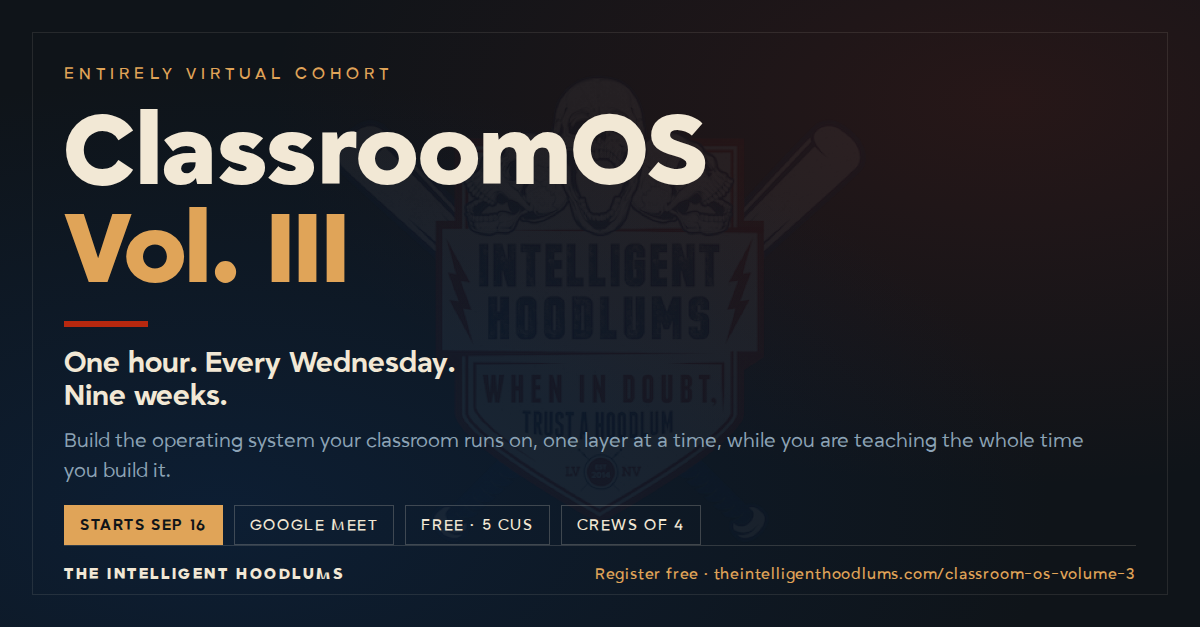
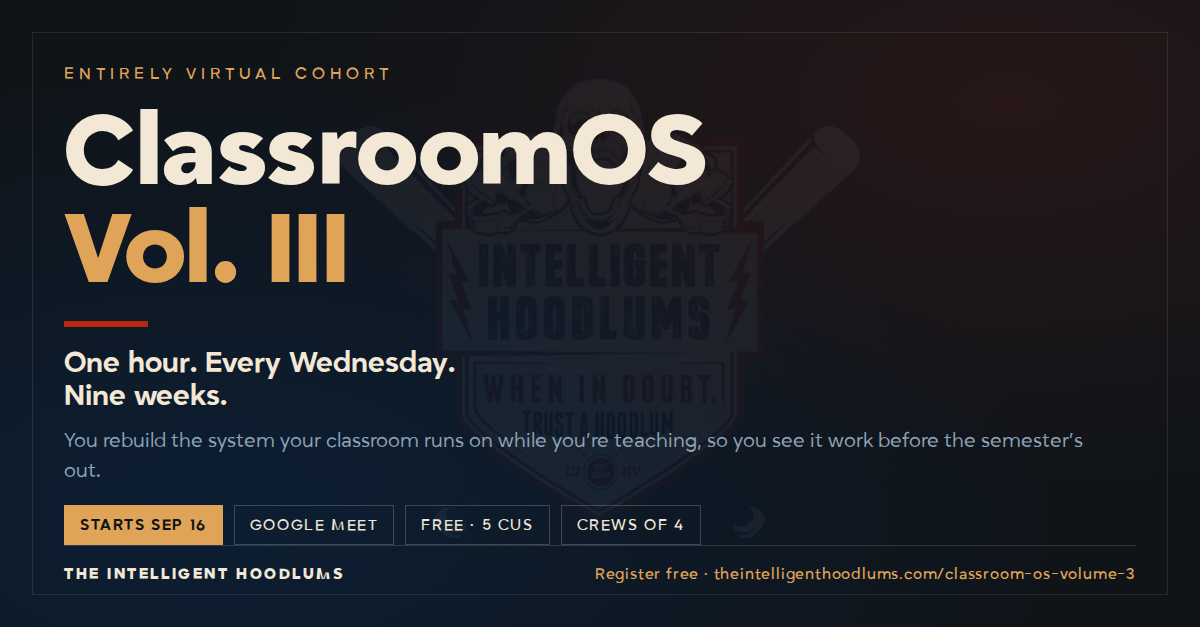
Tighten Vol. III copy for voice and length
Fix the voice problems webs flagged and cut the page down:
- Drop 'next honest chance' (self-certifying virtue word) and 'load-bearing wall'
  (vocabulary tell)
- Rewrite the circular 'teaching the whole time you build it' line on the page,
  the event card, and the registration graphics
- Remove the dangling 'same crews' reference, which named crews before the page
  introduced them
- Use contractions throughout for a less stilted register
- Pull the nine-week cards back from a step-by-step syllabus to outcomes, so the
  page stops giving the method away
- Cut the session-open block and fold hours-and-credit into a compact note,
  shortening the page overall
Re-render both social card sets from the updated copy.

Changed region(s): [[0.0308, 0.697, 0.925, 0.7576]]

diff --git a/classroom-os-volume-3.html b/classroom-os-volume-3.html
@@ -172,7 +172,7 @@
     <h1 class="hero-title" style="margin-top:18px;">ClassroomOS,<br>Vol.&nbsp;III.</h1>
     <div class="rufous-rule hero-rule"></div>
     <p class="hero-tagline">
-      One hour. Every Wednesday. Nine weeks. Build the operating system your classroom runs on, one layer at a time, while you are teaching the whole time you build it.
+      One hour. Every Wednesday. Nine weeks. You&rsquo;ll rebuild the system your classroom runs on while you&rsquo;re teaching, so you see it work before the semester&rsquo;s out.
     </p>
     <div class="hero-cta">
       <a href="https://luma.com/d18q3tcw" class="btn btn-primary" target="_blank" rel="noopener">Take the Seat<span class="sr-only"> (register on Luma, opens in new tab)</span></a>
@@ -189,13 +189,13 @@
     <h2 class="section-title">Every classroom runs on an operating system.</h2>
     <div class="rufous-rule section-rule"></div>
     <p class="lede-text">
-      Most teachers inherited theirs by accident: old habits, district mandates, and whatever survived the last in-service. It holds up fine until you are absent, or exhausted, or the schedule collapses. Then it turns out the system was you the whole time.
+      Most teachers inherited theirs by accident, built from old habits, mandates, and whatever survived the last in-service. It holds up until you&rsquo;re absent, or exhausted, or the schedule collapses. That&rsquo;s when you find out the system was you.
     </p>
     <p class="lede-text" style="margin-top:24px;">
-      <strong>ClassroomOS is where you rebuild that system on purpose, one layer at a time.</strong> You start with what you actually believe about how people learn. Then you build the room, the year, and the tools that carry it, until the design is what holds the whole thing together.
+      <strong>ClassroomOS is where you rebuild it on purpose, one layer at a time.</strong> You start with what you believe about how people learn, then build the room, the year, and the tools that carry it.
     </p>
     <p class="lede-text" style="margin-top:24px;">
-      Teachers who did this in June rated their own classrooms on Monday and again on Friday. &ldquo;My classroom could run without me in the room&rdquo; moved from 3.7 to 4.4. Eighty-six percent of scores rose.
+      Teachers who did this in June rated their own rooms before and after. &ldquo;My classroom could run without me&rdquo; moved from 3.7 to 4.4, and 86% of scores went up.
     </p>
   </div>
 </section>
@@ -204,33 +204,18 @@
 <section class="section section-work" tabindex="-1">
   <div class="section-inner">
     <div class="section-label">Why This One Runs Online</div>
-    <h2 class="section-title">There is no five-day window in a school year.</h2>
+    <h2 class="section-title">There&rsquo;s no five-day window in a school year.</h2>
     <div class="rufous-rule section-rule"></div>
     <p class="lede-text">
-      You know that better than we do. The teachers who built their system in June got five consecutive mornings because it was June, and the next honest chance at five straight days is Summer 2027.
-    </p>
-    <p class="lede-text" style="margin-top:24px;">
-      Vol.&nbsp;III runs one hour a week on Google Meet, nine Wednesdays, this fall. Same layers. Same crews. The difference is that <strong>you will be teaching the entire time you build it.</strong>
+      You know that better than we do. The June cohorts got five straight mornings because it was June, and the next time you&rsquo;ll get five in a row is 2027. This one runs online instead: one hour a week, nine Wednesdays, this fall.
     </p>
 
     <div class="ab-callout" style="margin-top:36px;">
       <div class="case-kicker">What that changes</div>
       <p>
-        The summer cohorts built a system and then went home for six weeks to wonder about it. You will build a piece of yours on Wednesday and hand it to thirty students on Thursday. You see your system working while you are still teaching, and you finish with a semester of evidence.
+        The June teachers built their system, then went home for six weeks to wonder if it worked. You&rsquo;ll build a piece on Wednesday and hand it to your students on Thursday. By Week 9 you&rsquo;ll have a system that&rsquo;s already survived a quarter of real teaching, and the evidence to prove it.
       </p>
     </div>
-
-    <p class="lede-text" style="margin-top:32px;">
-      Every session opens with what happened when you put last week&rsquo;s work in front of real students.
-    </p>
-    <div class="open-questions">
-      Did anything break?<br>
-      Was anything ignored?<br>
-      What went well?
-    </div>
-    <p class="lede-text" style="margin-top:24px;">
-      Then we collaborate during that hour, while your experience of it is still fresh. By Week 9 your system will have survived a quarter of real teaching.
-    </p>
   </div>
 </section>
 
@@ -238,11 +223,11 @@
 <section class="section section-work" id="weeks" tabindex="-1">
   <div class="section-inner">
     <div class="section-label">The Nine Weeks</div>
-    <h2 class="section-title">Same layers. Built live.</h2>
+    <h2 class="section-title">Five layers, built live.</h2>
     <div class="rufous-rule section-rule"></div>
 
     <p class="schedule-intro">
-      Each pair of weeks builds one layer of the system on top of the last, starting with the person and ending with something that runs without you. Here is the arc, week by week.
+      Each stretch builds one layer on the last, starting with you and ending with a room that runs without you.
     </p>
 
     <div class="day-grid">
@@ -256,9 +241,8 @@
         <div class="day-theme">Source Code</div>
         <h3 class="day-title">Who you are.</h3>
         <p class="day-blurb">
-          The beliefs already running your classroom whether or not you ever named them. Your Circle Map, the opening of your Source Code Document, and the AI that will grow alongside your system all semester.
+          You write down what you actually believe about how people learn, so the rest of your system has something to build on.
         </p>
-        <p class="day-question">What do you actually believe about how people learn?</p>
       </article>
 
       <!-- ARCHITECTURE -->
@@ -270,9 +254,8 @@
         <div class="day-theme">Architecture</div>
         <h3 class="day-title">The visible structures.</h3>
         <p class="day-blurb">
-          The structures that carry your Source Code when your voice is not carrying it. Procedures, layout, transitions. The things a stranger could read off your walls.
+          You build the structures that carry your classroom when your voice isn&rsquo;t: the layout, the procedures, the things a stranger could read off your walls.
         </p>
-        <p class="day-question">Could a stranger read who you are off your walls?</p>
       </article>
 
       <!-- SCHEDULER -->
@@ -282,11 +265,10 @@
           <span class="day-date">Oct 14 &middot; Oct 21</span>
         </div>
         <div class="day-theme">Scheduler</div>
-        <h3 class="day-title">You design the year.</h3>
+        <h3 class="day-title">The year, by design.</h3>
         <p class="day-blurb">
-          Where your students are, where they are going, and whether they could tell you without being told.
+          You design your whole year as something your students can follow, instead of a pacing guide they never see.
         </p>
-        <p class="day-question">Do your students know where they are in the year?</p>
       </article>
 
       <!-- APPLICATIONS -->
@@ -296,11 +278,10 @@
           <span class="day-date">Oct 28 &middot; Nov 4</span>
         </div>
         <div class="day-theme">Applications</div>
-        <h3 class="day-title">The layer that does the work.</h3>
+        <h3 class="day-title">The daily tools.</h3>
         <p class="day-blurb">
-          Your Gems, the thing on the wall, the resources you actually use, and a sub plan that runs the room the day you are out.
+          You build the tools that do the daily work, including a sub plan that runs the room the day you&rsquo;re out.
         </p>
-        <p class="day-question">Would your room run tomorrow if you could not come in?</p>
       </article>
 
       <!-- THE ABSENCE TEST -->
@@ -312,9 +293,8 @@
         <div class="day-theme">The Absence Test</div>
         <h3 class="day-title">Live curveballs.</h3>
         <p class="day-blurb">
-          Everything you built, under pressure. A new student who speaks no English, arriving tomorrow. A schedule that just collapsed. The summer cohorts answered this from a simulation. You will answer it from a quarter of real evidence.
+          You throw everything you built against the hard days: a new student who speaks no English arriving tomorrow, or a schedule that just fell apart.
         </p>
-        <p class="day-question">You already know the answer.</p>
       </article>
 
     </div>
@@ -325,31 +305,20 @@
 
     <div class="register-strip">
       <div class="register-facts">
-        <strong>Free.</strong> Fifteen logged hours &middot; <strong>five CUs</strong><br>
-        Nine hours on the Wednesdays &middot; six hours in your own classroom
+        <strong>Free.</strong> Fifteen hours &middot; <strong>five CUs</strong><br>
+        Nine hours on the Wednesdays &middot; six in your own room
       </div>
       <div class="register-actions">
         <a href="https://luma.com/d18q3tcw" class="btn btn-primary" target="_blank" rel="noopener">Register on Luma<span class="sr-only"> (opens in new tab)</span></a>
       </div>
     </div>
-  </div>
-</section>
 
-<!-- THE HOURS AND THE CREDIT -->
-<section class="section section-crew" tabindex="-1">
-  <div class="section-inner">
-    <div class="section-label">The Hours, and the Credit</div>
-    <h2 class="section-title">Fifteen hours. Five CUs.</h2>
-    <div class="rufous-rule section-rule"></div>
-    <p class="lede-text">
-      Nine of those hours are the Wednesdays. The other six are your own, spent inside your own classroom on your own system, and you log them on a spreadsheet we give you.
-    </p>
-    <p class="lede-text" style="margin-top:24px;">
-      You will probably work more than six. Most people do. <strong>The credit caps at five CUs no matter how many hours you put in,</strong> so log what you did and stop counting.
-    </p>
-    <p class="lede-text" style="margin-top:24px;">
-      Three copies of that log exist when this is over: yours, ours, and NV-SIDE&rsquo;s. If anyone is ever audited, all three match.
-    </p>
+    <div class="ab-callout" style="margin-top:24px;">
+      <div class="case-kicker">Hours and credit</div>
+      <p>
+        The six self-logged hours go on a sheet we give you. You&rsquo;ll probably do more, but the credit caps at five CUs, so log what you did and stop counting. Your copy, ours, and NV-SIDE&rsquo;s all match if you&rsquo;re ever audited.
+      </p>
+    </div>
   </div>
 </section>
 
@@ -362,9 +331,9 @@
     <ul class="leave-list">
       <li><strong>A complete ClassroomOS:</strong> Source Code, Architecture, Scheduler, Applications.</li>
       <li><strong>An AI trained on your classroom,</strong> your content, and your voice, built up over nine weeks of real teaching.</li>
-      <li><strong>A sub plan</strong> that has already been used.</li>
+      <li><strong>A sub plan</strong> that&rsquo;s already been used.</li>
       <li><strong>Fifteen logged hours and five CUs.</strong></li>
-      <li><strong>A crew of four people</strong> who watched your room change in real time.</li>
+      <li><strong>A crew of four</strong> who watched your room change in real time.</li>
     </ul>
   </div>
 </section>
@@ -373,16 +342,16 @@
 <section class="section section-crew" tabindex="-1">
   <div class="section-inner">
     <div class="section-label">Who This Is For</div>
-    <h2 class="section-title">The only load-bearing wall in the building.</h2>
+    <h2 class="section-title">The one holding it all up.</h2>
     <div class="rufous-rule section-rule"></div>
     <p class="lede-text">
-      Teachers who are already good and are tired of being the only load-bearing wall in the building. You do not need to be technical. You do not need permission. <strong>You need one hour on Wednesdays and four people willing to tell you the truth.</strong>
+      You&rsquo;re already good at this, and you&rsquo;re tired of being the only thing keeping the room standing. You don&rsquo;t need to be technical, and you don&rsquo;t need permission. <strong>You need one hour on Wednesdays and four people who&rsquo;ll tell you the truth.</strong>
     </p>
 
     <div class="ab-callout" style="margin-top:36px;">
       <div class="case-kicker">Where it leads</div>
       <p>
-        Vol.&nbsp;III runs this fall. Vol.&nbsp;IV runs in the spring. Both are online, and both lead to <strong>Vol.&nbsp;V, five days in person in Las Vegas in Summer 2027.</strong> Start anywhere. Teachers who run an online semester first arrive at the in-person week carrying a system that has already been through a school year, which changes what that week is for.
+        Vol.&nbsp;III is this fall, Vol.&nbsp;IV is in the spring, and both lead to <strong>Vol.&nbsp;V: five days in person in Las Vegas, summer 2027.</strong> Start anywhere. Teachers who run a semester online first walk into that week already carrying a system that&rsquo;s been through a school year.
       </p>
     </div>
   </div>
@@ -392,7 +361,7 @@
 <section class="cta-band" id="register" tabindex="-1">
   <div class="cta-inner">
     <h2 class="cta-title">Take the seat.</h2>
-    <p class="cta-sub">Nine Wednesdays, starting September 16. Crews are capped at four, so the room stays small enough that people know your classroom by Week 3. Bring a colleague if you want your crew to already know each other.</p>
+    <p class="cta-sub">Nine Wednesdays, starting September 16. Crews cap at four, so the room stays small. Bring a colleague if you want yours to already know each other.</p>
     <a href="https://luma.com/d18q3tcw" class="btn btn-bone" target="_blank" rel="noopener">Register on Luma<span class="sr-only"> (opens in new tab)</span></a>
   </div>
 </section>

diff --git a/classroom-os.html b/classroom-os.html
@@ -88,7 +88,7 @@
   <div class="section-inner">
     <div class="ab-callout" style="margin-bottom:44px;">
       <div class="case-kicker">Now enrolling &middot; ClassroomOS, Vol. III</div>
-      <p><strong>Vol. III is open, and it is entirely virtual.</strong> One hour every Wednesday for nine weeks on Google Meet, starting September 16. Same five-layer build, this time while you are teaching. Free, five CUs. <a href="/classroom-os-volume-3" style="color:var(--hm-bone);text-decoration:underline;">See the nine weeks and take your seat</a>, or <a href="/classroom-os-volume-2" style="color:var(--hm-bone);text-decoration:underline;">see what Volume 2 built</a> this July.</p>
+      <p><strong>Vol. III is open, and it&rsquo;s entirely virtual.</strong> One hour every Wednesday for nine weeks on Google Meet, starting September 16. The same five-layer build, this time while you&rsquo;re teaching. Free, five CUs. <a href="/classroom-os-volume-3" style="color:var(--hm-bone);text-decoration:underline;">See the nine weeks and take your seat</a>, or <a href="/classroom-os-volume-2" style="color:var(--hm-bone);text-decoration:underline;">see what Volume 2 built</a> this July.</p>
     </div>
     <div class="section-label">Chapter 01</div>
     <h2 class="section-title">What is Classroom OS?</h2>

diff --git a/events.html b/events.html
@@ -174,7 +174,7 @@
         <div class="day-theme">Free &middot; Online &middot; Nine Wednesdays</div>
         <h3 class="day-title">ClassroomOS, Vol. III.</h3>
         <p class="day-blurb">
-          An entirely virtual cohort. One hour every Wednesday for nine weeks on Google Meet, building the operating system your classroom runs on, one layer at a time. The difference this time is that you will be teaching the whole time you build it, so you finish with a semester of evidence. Fifteen logged hours, five CUs, and a crew of four. Crews are capped, so the room stays small.
+          An entirely virtual cohort. One hour every Wednesday for nine weeks on Google Meet, starting September 16. You rebuild the system your classroom runs on while you&rsquo;re teaching, so you see it work before the semester&rsquo;s out. Free, fifteen hours, five CUs, and a crew of four.
         </p>
         <div class="event-actions">
           <a class="btn btn-primary" href="https://luma.com/d18q3tcw" target="_blank" rel="noopener">Take the seat<span class="sr-only"> (register on Luma, opens in new tab)</span> <span aria-hidden="true">&rarr;</span></a>
